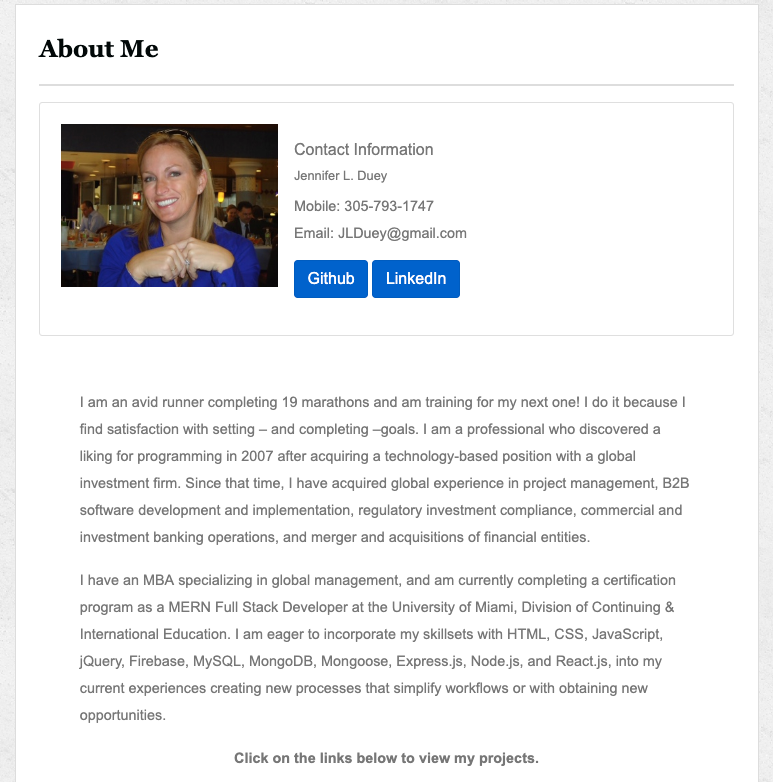
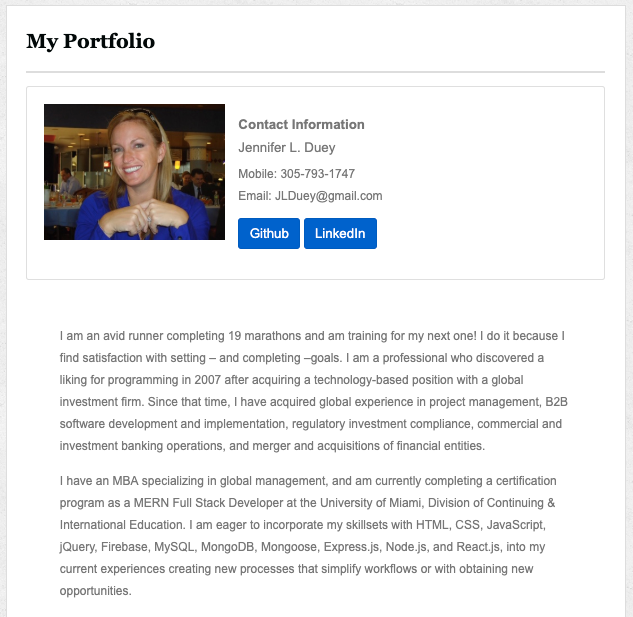
trying text change

Changed region(s): [[0.09, 0.4927, 0.9005, 0.9854], [0.06, 0.154, 0.6003, 0.4311], [0.03, 0.0308, 0.9605, 0.1232]]

diff --git a/index.html b/index.html
@@ -13,7 +13,7 @@
 <body>
   <div id="main-container" class="container">
     <section class="main-section">
-      <h1>About Me</h1>
+      <h1>My Portfolio</h1>
 
       <div class="card mb-3" style="max-width: 100%;">
         <div class="row no-gutters">
